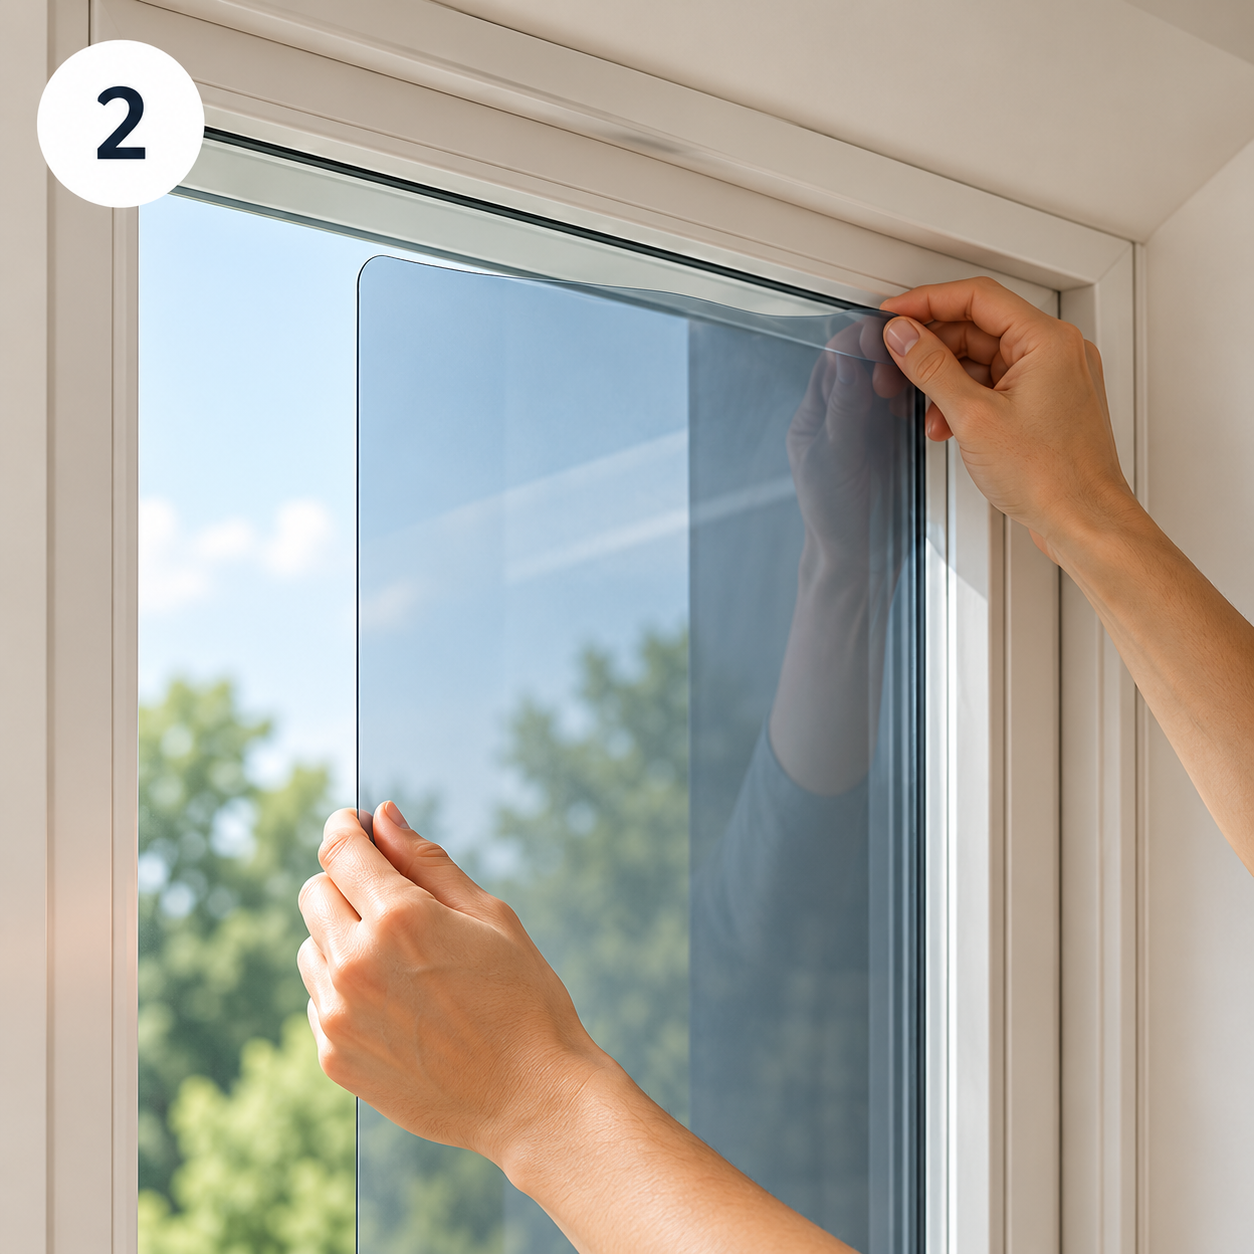
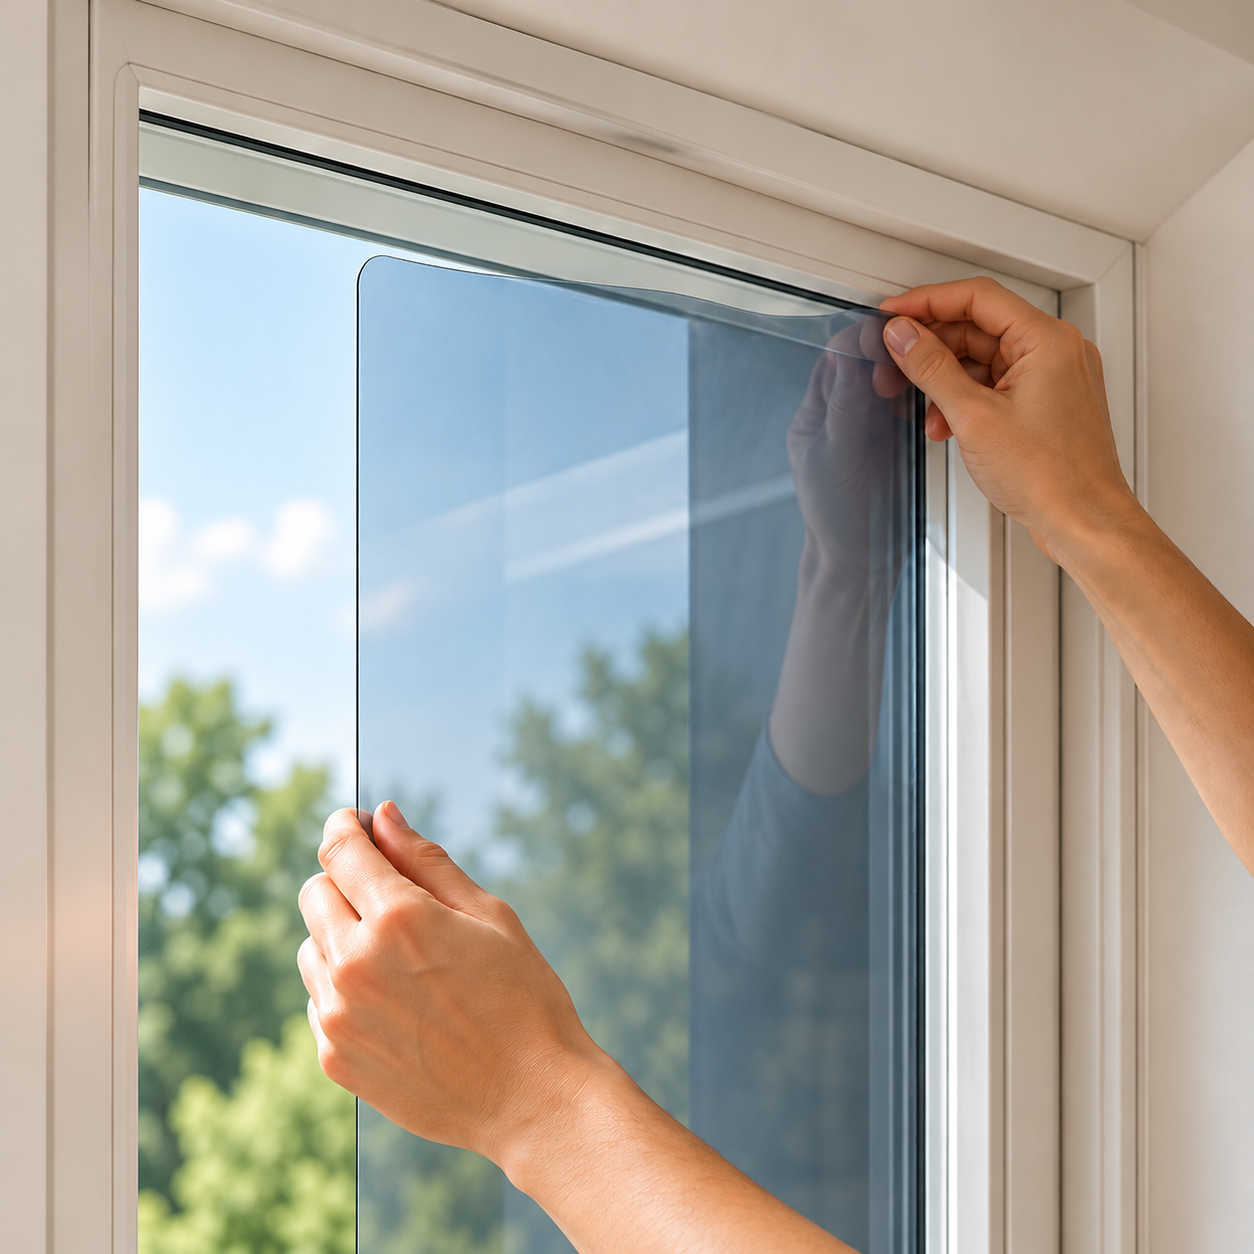
Add files via upload

diff --git a/index.html b/index.html
@@ -142,8 +142,8 @@ clip-path:polygon(0 60%,8% 48%,12% 65%,20% 36%,28% 58%,35% 28%,44% 56%,52% 37%,6
 
 /* ===== KlimaSkin customer-facing redesign ===== */
 .hero-photo-card{display:flex;flex-direction:column;gap:14px;min-height:560px}
-.hero-image-wrap{position:relative;overflow:hidden;border-radius:24px;min-height:455px;background:#e9e3db;border:1px solid var(--line)}
-.hero-image{width:100%;height:100%;object-fit:cover;display:block;position:absolute;inset:0}
+.hero-image-wrap{position:relative;overflow:hidden;border-radius:24px;min-height:455px;background:#fff;border:1px solid var(--line)}
+.hero-image{width:100%;height:100%;object-fit:contain;object-position:center;display:block;position:absolute;inset:0}
 .hero-float{position:absolute;left:18px;bottom:18px;display:flex;gap:8px;flex-wrap:wrap}
 .hero-status{background:rgba(255,255,255,.92);backdrop-filter:blur(8px);border:1px solid rgba(255,255,255,.7);padding:9px 12px;border-radius:999px;font-size:12px;font-weight:850;box-shadow:0 8px 22px rgba(0,0,0,.1)}
 .hero-chip-row{display:grid;grid-template-columns:repeat(3,1fr);gap:10px}
@@ -177,7 +177,7 @@ clip-path:polygon(0 60%,8% 48%,12% 65%,20% 36%,28% 58%,35% 28%,44% 56%,52% 37%,6
 .process-card .small{line-height:1.45}
 
 .sim-photo-wrap{position:relative;overflow:hidden;border-radius:24px;height:430px;border:1px solid var(--line);background:#eae4dc}
-.sim-photo-img{width:100%;height:100%;object-fit:cover;display:block}
+.sim-photo-img{width:100%;height:100%;object-fit:contain;object-position:center;display:block;background:#fff}
 .sim-shade{position:absolute;inset:0;background:rgba(25,76,110,.17);transition:.25s;pointer-events:none;mix-blend-mode:multiply}
 .sim-photo-highlight{position:absolute;inset:0;border:12px solid rgba(255,255,255,.12);pointer-events:none}
 .sim-photo-caption{margin-top:10px;font-size:12px;color:var(--muted)}
@@ -190,7 +190,7 @@ clip-path:polygon(0 60%,8% 48%,12% 65%,20% 36%,28% 58%,35% 28%,44% 56%,52% 37%,6
 .install-card-new:hover{transform:translateY(-2px)}
 .install-card-new.active{border-color:#9fc0d8;box-shadow:0 0 0 3px rgba(47,127,180,.12)}
 .install-card-img{height:155px;border-radius:14px;overflow:hidden;margin-bottom:12px;position:relative;background:#eee7df}
-.install-card-img img{width:100%;height:100%;object-fit:cover;display:block}
+.install-card-img img{width:100%;height:100%;object-fit:contain;object-position:center;display:block;background:#fff}
 .install-card-img.focus-right img{object-position:72% center}
 .install-card-img.focus-left img{object-position:22% center}
 .install-film-overlay{position:absolute;inset:0;background:linear-gradient(90deg,rgba(47,127,180,.08),rgba(17,58,90,.27));pointer-events:none}
@@ -199,7 +199,7 @@ clip-path:polygon(0 60%,8% 48%,12% 65%,20% 36%,28% 58%,35% 28%,44% 56%,52% 37%,6
 .install-card-new p{margin:0;font-size:13px;color:#5c6a79}
 .install-detail-v2{display:grid;grid-template-columns:1fr 1fr;gap:20px;background:#eef4f8;border:1px solid #c9dae6;border-radius:22px;padding:20px}
 .install-visual{background:#fff;border:1px solid var(--line);border-radius:18px;overflow:hidden;min-height:350px}
-.install-visual img{width:100%;height:100%;min-height:350px;object-fit:cover;display:block}
+.install-visual img{width:100%;height:100%;min-height:350px;object-fit:contain;object-position:center;display:block;background:#fff}
 .install-content{display:flex;flex-direction:column;gap:12px}
 .detail-step{font-size:12px;font-weight:900;color:var(--orange);text-transform:uppercase;letter-spacing:.08em}
 .install-content h3{margin:0;font-size:32px}
@@ -387,10 +387,10 @@ button.room{width:100%;text-align:left;font:inherit;color:inherit;transition:.2s
       <div class="section-intro product-intro-row">
         <div>
           <div class="eyebrow">KlimaSkin System</div>
-          <h2>Fünf Komponenten. Ein intelligentes Fenstersystem.</h2>
+          <h2>Vier Komponenten. Ein intelligentes Fenstersystem.</h2>
           <p class="muted">Starte mit der Gesamtansicht und öffne anschließend jede Komponente einzeln. So wird sofort sichtbar, wo sie sitzt, was sie macht und warum sie für das Gesamtsystem wichtig ist.</p>
         </div>
-        <div class="system-summary-badge"><b>5 Komponenten</b><span>1 vernetztes Retrofit-System</span></div>
+        <div class="system-summary-badge"><b>4 Komponenten</b><span>1 vernetztes Retrofit-System</span></div>
       </div>
 
       <div class="system-tabs system-tabs-premium" id="systemTabs">
@@ -399,14 +399,13 @@ button.room{width:100%;text-align:left;font:inherit;color:inherit;transition:.2s
         <button class="system-tab-btn" data-system="node">Window Node</button>
         <button class="system-tab-btn" data-system="hub">KlimaHub</button>
         <button class="system-tab-btn" data-system="connector">H Connector</button>
-        <button class="system-tab-btn" data-system="solar">Solar Control Strip</button>
       </div>
 
       <div class="system-layout system-layout-premium">
         <div class="system-media system-media-premium" id="systemMedia">
           <div class="system-focus-label" id="systemFocusLabel">Gesamtsystem</div>
-          <img id="systemFocusImage" src="system-overview-full.png" alt="KlimaSkin Gesamtsystem mit allen Komponenten">
-          <div class="system-media-note" id="systemMediaNote">Die Gesamtansicht zeigt, wie Smart Film, Window Node, H Connector, KlimaHub und Solar Control Strip zusammenarbeiten.</div>
+          <img id="systemFocusImage" src="system-components.png" alt="KlimaSkin Gesamtsystem mit Smart Film, Window Node, H Connector und KlimaHub">
+          <div class="system-media-note" id="systemMediaNote">Die Gesamtansicht zeigt, wie Smart Film, Window Node, H Connector und KlimaHub zusammenarbeiten.</div>
           <button type="button" class="image-reset-btn" id="systemOverviewBtn">Gesamtsystem anzeigen</button>
         </div>
 
@@ -974,12 +973,12 @@ if($('#whyNowBtn')) $('#whyNowBtn').onclick=()=>openModal('Warum Retrofit?',`<p>
 
 const systemData={
   overview:{
-    tag:'Systemübersicht', title:'KlimaSkin als Gesamtsystem', image:'system-overview-full.png', fit:'contain', focus:'center', scale:1,
-    note:'Die Gesamtansicht zeigt, wie alle fünf KlimaSkin-Komponenten am bestehenden Fenster zusammenspielen.',
-    intro:'KlimaSkin ergänzt das bestehende Fenster um fünf aufeinander abgestimmte Komponenten. Jede übernimmt eine klare Aufgabe – zusammen entsteht ein automatisches Retrofit-System.',
-    specs:['5 Komponenten','Retrofit','Automatische Steuerung'],
+    tag:'Systemübersicht', title:'KlimaSkin als Gesamtsystem', image:'system-components.png', fit:'contain', focus:'center', scale:1,
+    note:'Die Gesamtansicht zeigt, wie alle vier KlimaSkin-Komponenten am bestehenden Fenster zusammenspielen.',
+    intro:'KlimaSkin ergänzt das bestehende Fenster um vier aufeinander abgestimmte Komponenten. Jede übernimmt eine klare Aufgabe – zusammen entsteht ein automatisches Retrofit-System.',
+    specs:['4 Komponenten','Retrofit','Automatische Steuerung'],
     questions:{
-      'Was gehört zum System?':'Smart Film, Window Node, H Connector, KlimaHub und Solar Control Strip.',
+      'Was gehört zum System?':'Smart Film, Window Node, H Connector und KlimaHub.',
       'Wie arbeitet es zusammen?':'Window Node und KlimaHub liefern Kontext, die Steuerung bewertet die Situation und der Smart Film passt seinen Schutzmodus an.',
       'Wo wird es installiert?':'Der größte Teil des Systems sitzt direkt am bestehenden Fenster. Der KlimaHub befindet sich im Innenraum.',
       'Was ist der Kundennutzen?':'Das bestehende Fenster bleibt erhalten und wird um automatischen, bedarfsgerechten Sonnenschutz ergänzt.'
@@ -998,15 +997,15 @@ const systemData={
     }
   },
   node:{
-    tag:'Lokale Sensorik & Steuerung', title:'Window Node', image:'system-overview-full.png', fit:'cover', focus:'71% 21%', scale:1.55,
-    note:'Window Node: lokale Sensorik und Steuerung direkt am Fenster.',
-    intro:'Der Window Node ist die lokale Steuereinheit am Fenster. Er verarbeitet relevante Messwerte und koordiniert die Reaktion des Smart Film.',
-    specs:['direkt am Fenster','Sensorik','lokale Steuerung'],
+    tag:'Sensorik, Steuerung & Energie', title:'Window Node', image:'component-window-node.png', fit:'contain', focus:'center', scale:1,
+    note:'Window Node: die schlanke Einheit am oberen Fensterbereich mit integrierter Sensorik, Steuerung und solarer Unterstützung.',
+    intro:'Der Window Node bündelt die lokale Fensterlogik in einer kompakten Einheit. Er nutzt die integrierte Solarfläche zur Unterstützung der Energieversorgung, verarbeitet relevante Messwerte und koordiniert die Reaktion des Smart Film.',
+    specs:['oben am Fenster','Sensorik & Steuerung','solar unterstützt'],
     questions:{
-      'Was ist das?':'Eine kompakte Sensor- und Steuereinheit für das einzelne Fenster.',
-      'Was macht es?':'Erfasst bzw. verarbeitet relevante Fensterdaten und gibt den passenden Modus an den Smart Film weiter.',
-      'Wo sitzt es?':'Direkt am Fensterrahmen bzw. im unmittelbaren Fensterbereich.',
-      'Warum braucht KlimaSkin es?':'Es ist die lokale Entscheidungs- und Steuerebene zwischen Messwerten und Filmreaktion.'
+      'Was ist das?':'Eine kompakte, solar unterstützte Sensor- und Steuereinheit für das einzelne Fenster.',
+      'Was macht es?':'Erfasst und verarbeitet relevante Fensterdaten, unterstützt seine Energieversorgung über die integrierte Solarfläche und gibt den passenden Modus an den Smart Film weiter.',
+      'Wo sitzt es?':'Horizontal am oberen Bereich des Fensterrahmens.',
+      'Warum braucht KlimaSkin es?':'Es verbindet lokale Messung, Steuerung und Energieunterstützung in einer Einheit und steuert damit die Reaktion des Smart Film.'
     }
   },
   hub:{
@@ -1033,18 +1032,6 @@ const systemData={
       'Warum braucht KlimaSkin es?':'Damit Film und Steuerung zuverlässig verbunden werden können, ohne eine große bauliche Installation.'
     }
   },
-  solar:{
-    tag:'Energieeinheit', title:'Solar Control Strip', image:'system-overview-full.png', fit:'cover', focus:'63% 15%', scale:1.48,
-    note:'Solar Control Strip: schlanke Energieeinheit am oberen Fensterbereich.',
-    intro:'Die Solar Control Strip unterstützt die lokale Energieversorgung direkt am Fenster und hält das Retrofit-Konzept kompakt.',
-    specs:['oben am Fenster','solar unterstützt','schlank'],
-    questions:{
-      'Was ist das?':'Eine schlanke, solar unterstützte Einheit am oberen Fensterbereich.',
-      'Was macht es?':'Nutzt verfügbares Licht, um die lokale Fenstereinheit energetisch zu unterstützen.',
-      'Wo sitzt es?':'Horizontal am oberen Bereich des Fensterrahmens.',
-      'Warum braucht KlimaSkin es?':'Sie reduziert im Konzept den Bedarf an zusätzlicher Verkabelung und unterstützt die autarke Nachrüstung.'
-    }
-  }
 };
 const systemButtons=$$('#systemTabs .system-tab-btn');
 function renderSystemDetail(key){
